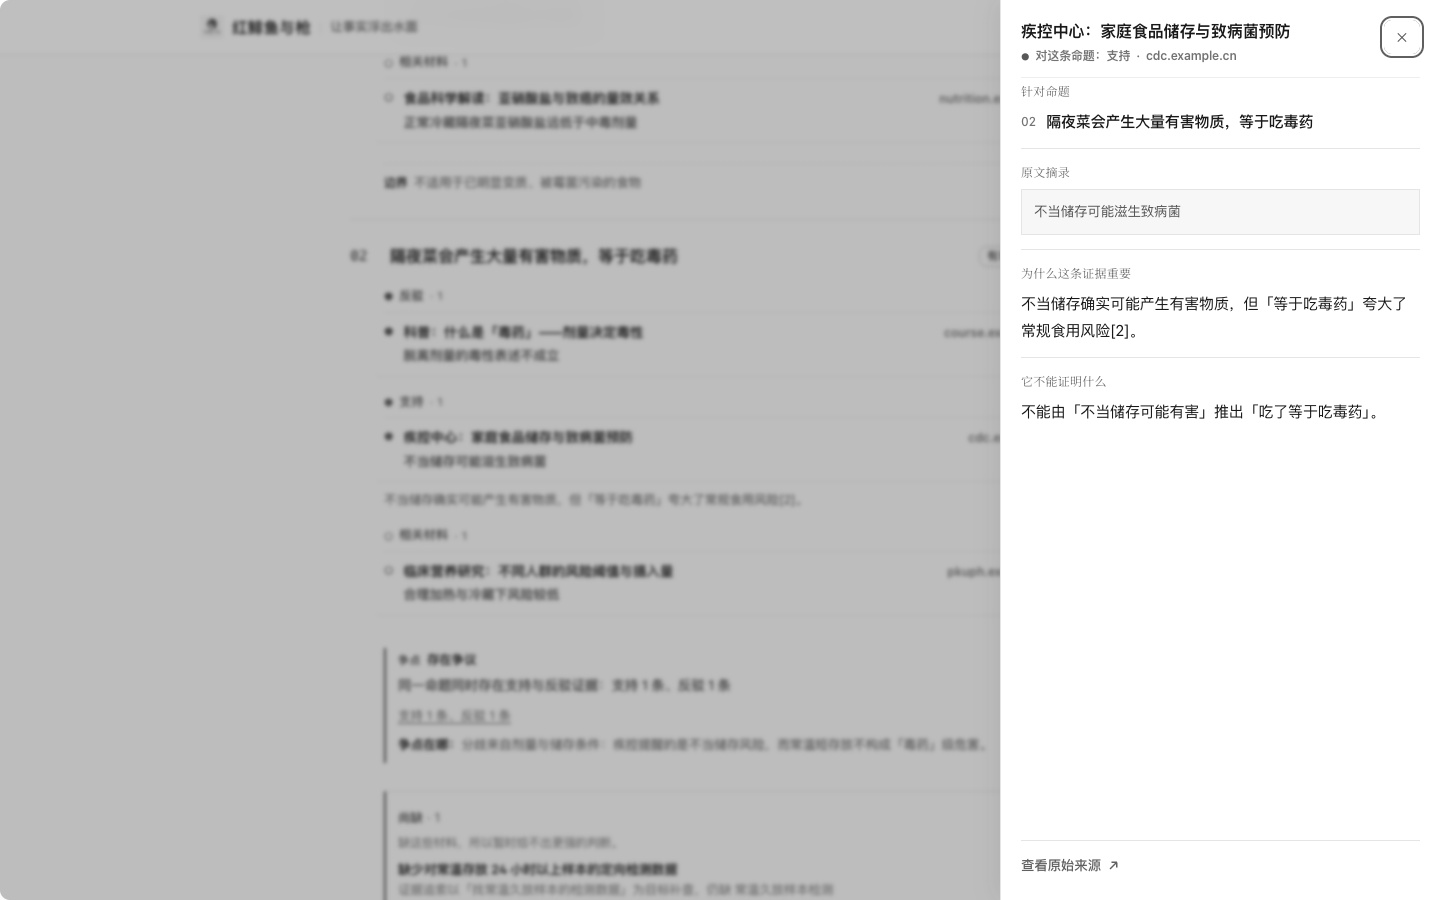
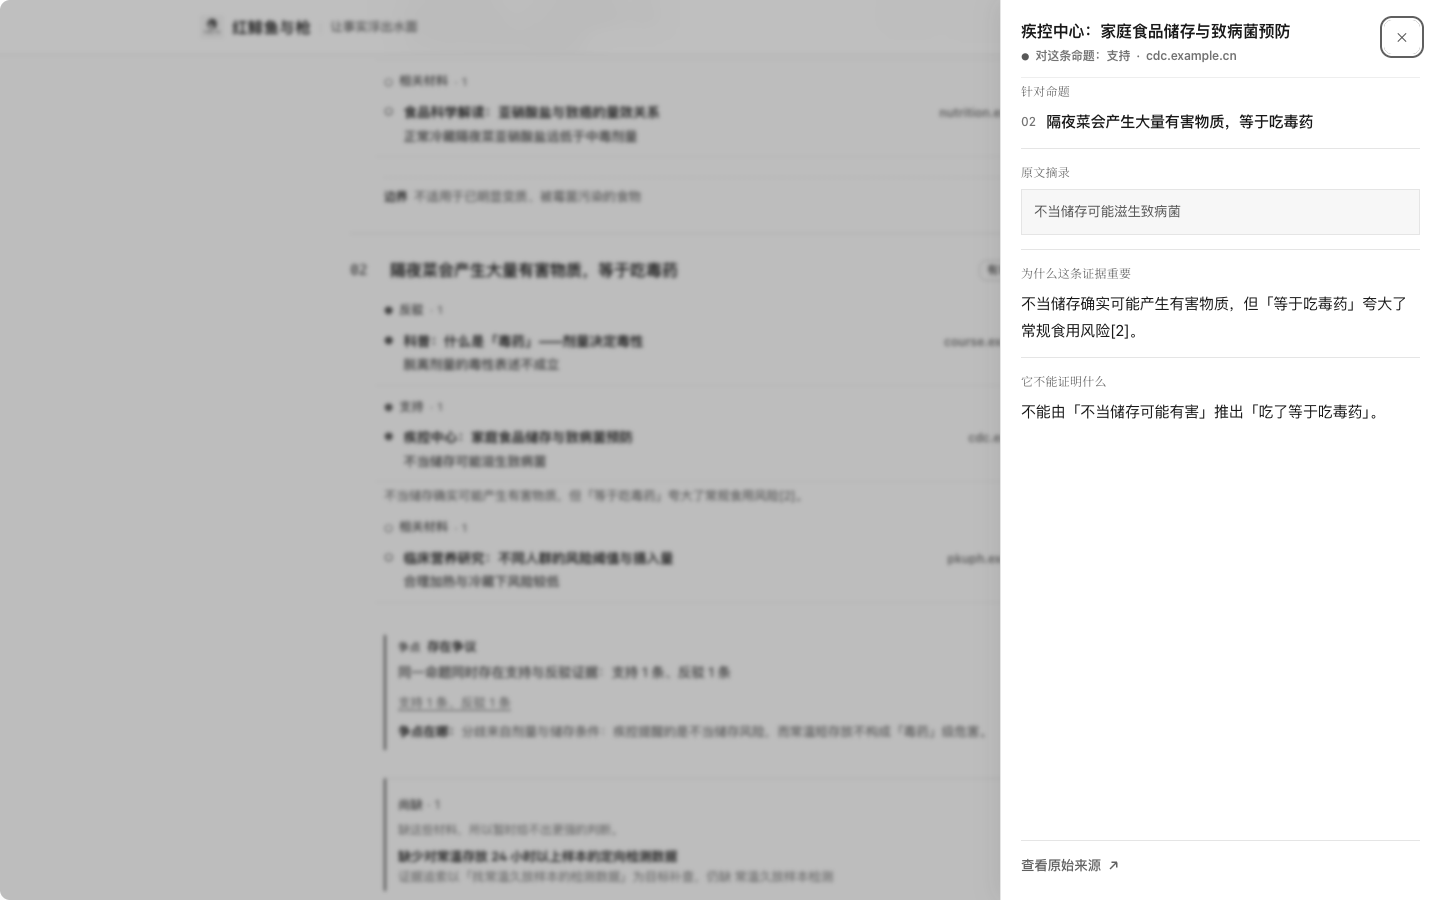
docs(#65): recapture Source Drawer after rebase onto Evidence Settling
叠在 main d6507de。Drawer 建在 persistent EvidenceBoard 的 motion.button 上。
goldenPath 70；capture GATE PASS（fixture ≠ 真实 SSE）。

diff --git a/docs/NOTES.md b/docs/NOTES.md
@@ -22,7 +22,7 @@
 
 # 当前状态
 
-2026-09-06 PR #71 rebase 到 main `d6507de`（#63 Evidence Settling 已合入）。完整保留 Claim Trace 与 EvidenceBoard persistent identity（`identifyEvidenceLinks` / stable-relation-ephemeral）。Source Drawer 建在 `motion.button` Evidence 行上：点击打开、关闭后焦点回原节点 `before === after`；Drawer 开着时 unique source settling 不关不抢不 remount dialog；duplicate 无法唯一 resolve 时 held 上一帧，不猜 relation。fixture ≠ 真实 SSE。不 merge，不开 #64/#66。
+2026-09-06 PR #71 rebase 到 main `d6507de`（#63 Evidence Settling 已合入）。完整保留 Claim Trace 与 EvidenceBoard persistent identity（`identifyEvidenceLinks` / stable-relation-ephemeral）。Source Drawer 建在 `motion.button` Evidence 行上：点击打开、关闭后焦点回原节点 `before === after`；Drawer 开着时 unique source settling 不关不抢不 remount dialog；duplicate 无法唯一 resolve 时 held 上一帧，不猜 relation。goldenPath 70；根 767；mvp build 绿；capture_source_drawer GATE PASS（5183，fixture 非真实 SSE）。不 merge，不开 #64/#66。
 
 2026-09-06 Issue #65 Source Drawer / Bottom Sheet 生产化独立 PR 待人工验收（`feat/reset-4e-source-drawer`）：DrawerState 为 `claimId + sourceId + role`，打开时从最新 snapshot 重取 Claim / EvidenceLink / Source，snapshot 更新不关抽屉、不抢焦点；finding / limitation / excerpt 有才显示，不编文案；Desktop 440px 右侧 Drawer，Mobile 390 Bottom Sheet；手写 modal（dialog 名、Tab / Shift+Tab 闭环、Escape、scrim、焦点回原 Evidence 行），未引入 UI 库。截图 `docs/design/2026-09-06-source-drawer/` 来自 DEV fixture，不是真实 SSE。验收见 `docs/evals/2026-09-06-source-drawer.md`。
 

diff --git a/docs/evals/2026-09-06-source-drawer.md b/docs/evals/2026-09-06-source-drawer.md
@@ -83,7 +83,7 @@ python3 scripts/capture_source_drawer.py
 
 ### Evidence
 
-- 行为测试：`mvp/src/goldenPath/goldenPath.test.tsx` Issue #65 段 15 项均为真实 focus / keydown / click；Issue #62 Claim Trace 段仍在。rebase 后 `cd mvp && npx vitest run src/goldenPath/goldenPath.test.tsx`：**53 通过**
+- 行为测试：`mvp/src/goldenPath/goldenPath.test.tsx` Issue #65 段为真实 focus / keydown / click；Issue #62 Claim Trace 与 Issue #63 Evidence Settling 段仍在。rebase 到 `d6507de` 后 `cd mvp && npx vitest run src/goldenPath/goldenPath.test.tsx`：**70 通过**（含 Drawer×Settling 交叉与 duplicate fail-safe）
 - 截图：`docs/design/2026-09-06-source-drawer/`
   - Desktop 1440：`source-drawer.png`、`source-drawer-no-limitation.png`、`source-drawer-unreachable.png`、`source-drawer-grayscale.png`
   - Mobile 390：`source-sheet.png`、`source-sheet-grayscale.png`
@@ -91,5 +91,5 @@ python3 scripts/capture_source_drawer.py
 - 截图来源是生产 Golden Path + DEV fixture `/?fixture=source-audit`，**不是**真实 SSE（真实 SSE 属 #66）
 - `npm test`：core 578 / eval 85 / server 21 / web 83 = **767 通过**
 - `npm run build`：通过
-- `cd mvp && npm test`：**944 通过 / 1 跳过**（含 Claim Trace）
+- `cd mvp && npm test`：goldenPath 70 全绿；全量 940 通过 / 1 跳过（worktree 里 4 个未改的 server 套件因 symlink 解析 `@earendil-works/pi-coding-agent` 失败，不在本 PR diff）
 - `cd mvp && npm run build`：通过
